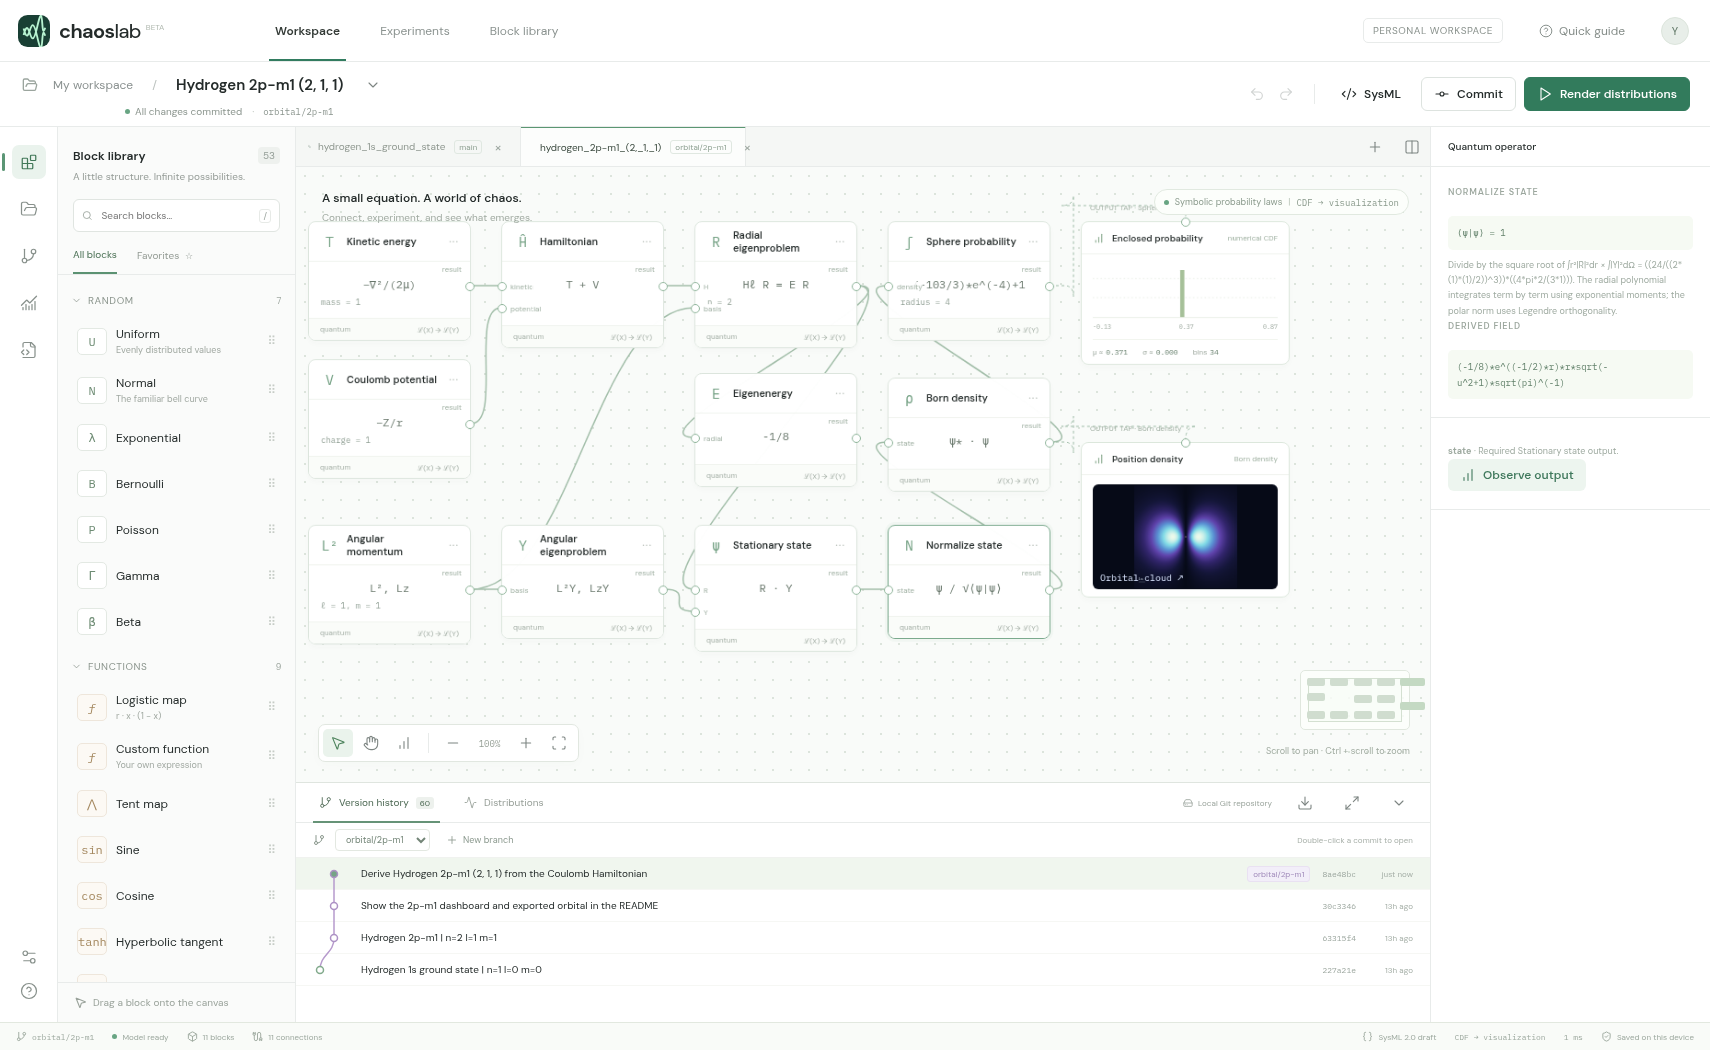
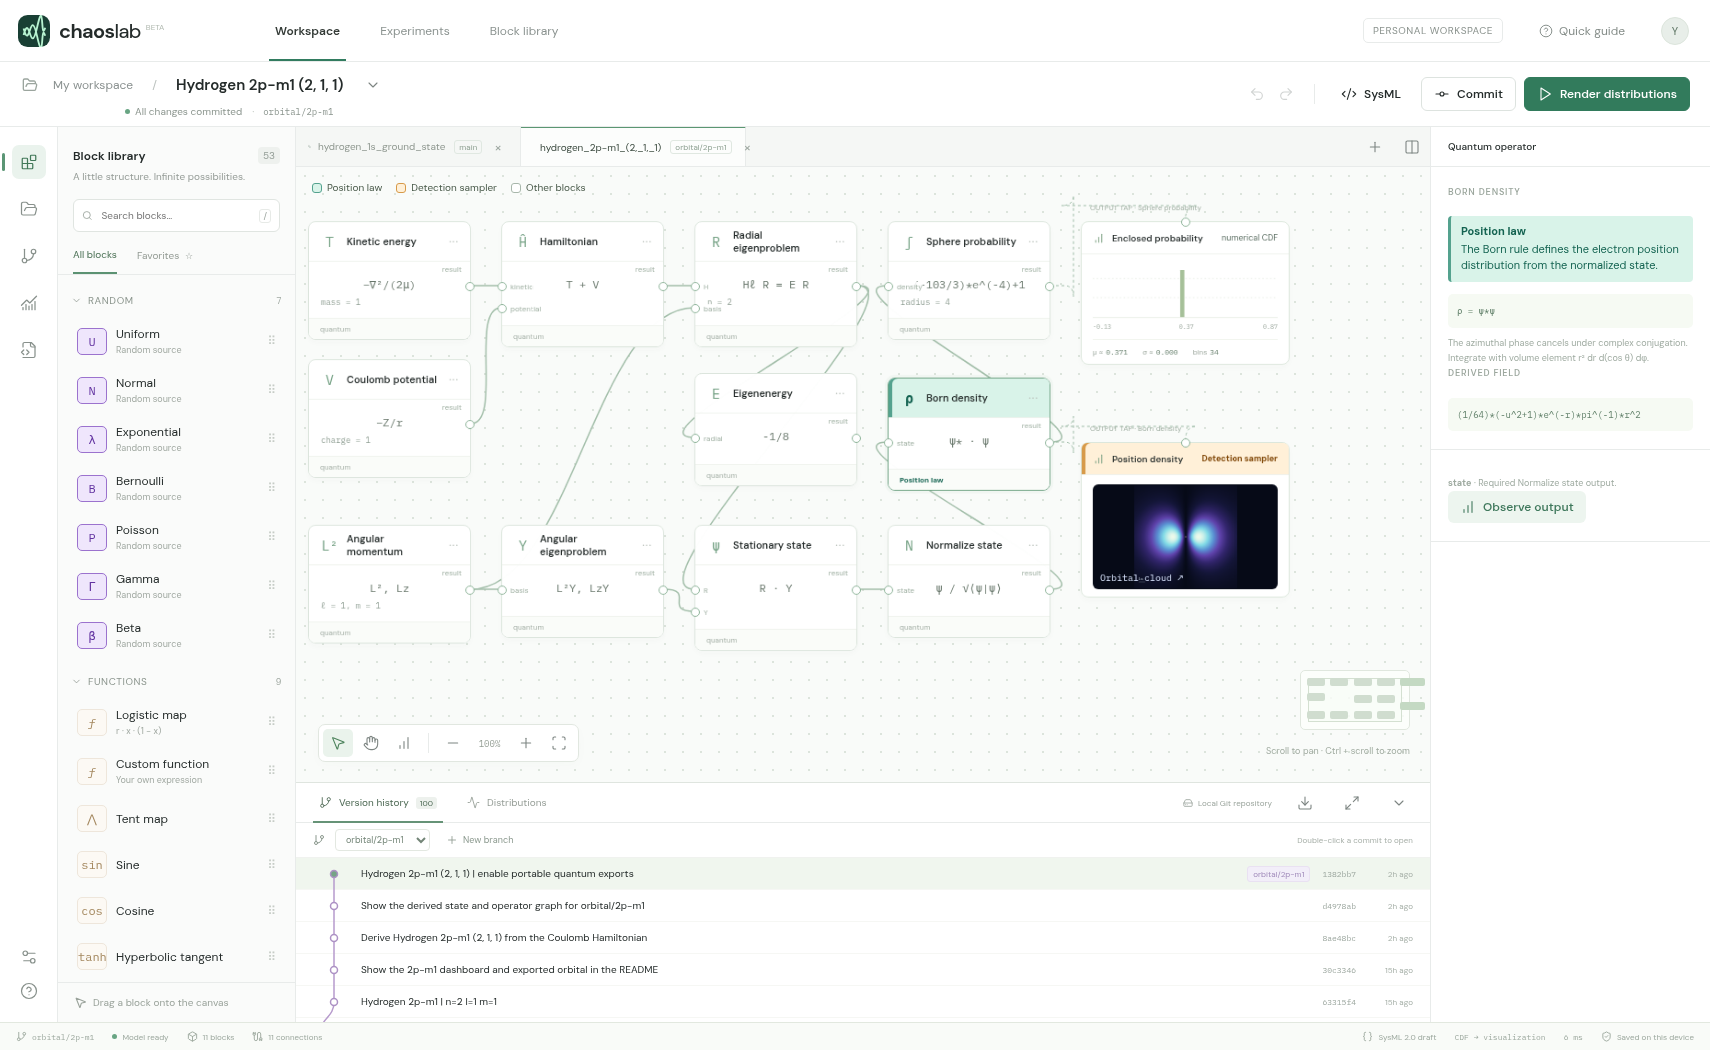
Hydrogen 2p-m1 (2, 1, 1) | identify the position law and detection sampler

diff --git a/studio.py b/studio.py
@@ -10,7 +10,7 @@ import tempfile
 import webbrowser
 
 ROOT = Path(__file__).resolve().parent
-STUDIO_REV = "1cc30c5632f1fe1f79a11ab6730f82c36a6c01e4"
+STUDIO_REV = "8657d6ecd3aa33a5a28f43219d5d6bfb8aa3edcc"
 STUDIO_REPO = "https://github.com/wa200508/chaos_lab.git"
 
 

diff --git a/README.md b/README.md
@@ -6,6 +6,8 @@ Open **Version history** in Chaos Lab to explore the 20 hydrogen designs in this
 
 The connected Hamiltonian and eigenstate solvers give $E=-1/8$ Hartree for this state.
 
+On the canvas, teal **Position law** marks where the Born rule defines the distribution of electron positions. Amber **Detection sampler** marks the tap that draws positions for the projected cloud. The central slice evaluates the density directly.
+
 ![Chaos Lab dashboard with the 2p model, m = 1, open in version history](dashboard.png)
 
 Radial nodes: 0. Polar nodes: 0. Plot half-width: 8 Bohr radii.
